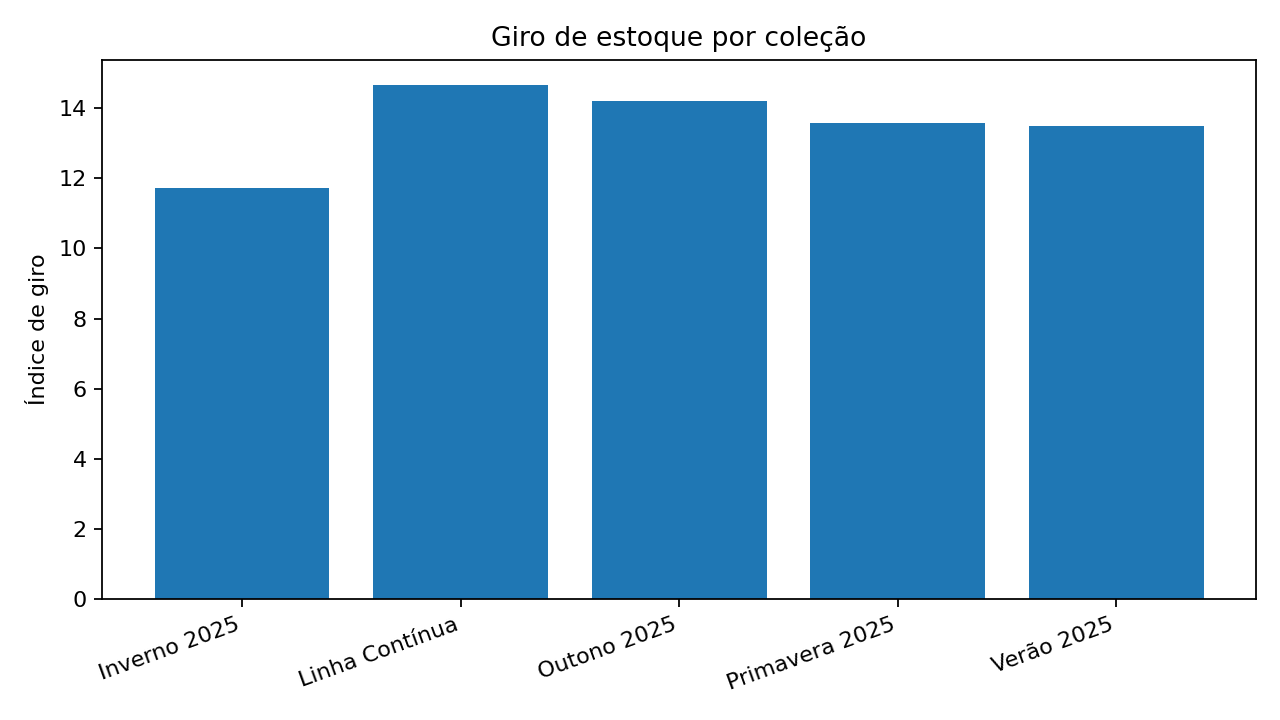
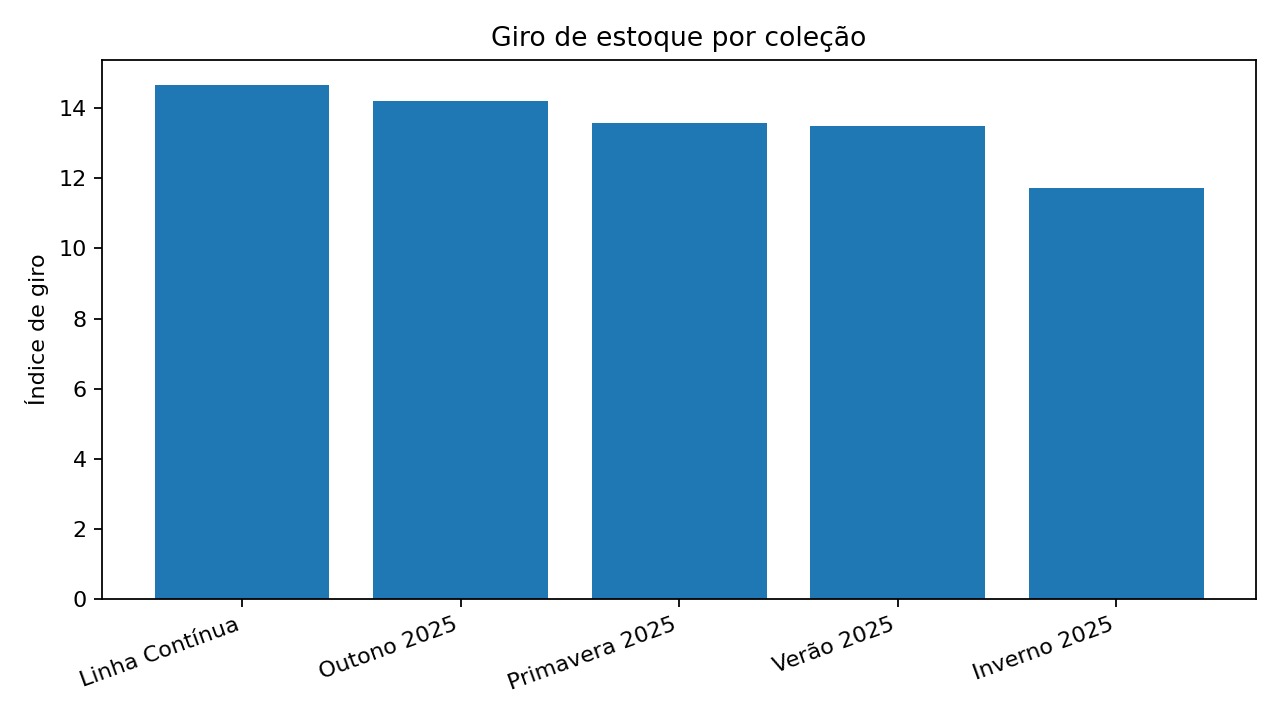
feat: adiciona geração completa de relatórios e exportação em Excel

diff --git a/src/analysis.py b/src/analysis.py
@@ -2,12 +2,21 @@ import pandas as pd
 import matplotlib.pyplot as plt
 from pathlib import Path
 
+# =========================
+# CONFIGURAÇÃO DE CAMINHOS
+# =========================
 BASE_DIR = Path(__file__).resolve().parents[1]
 DATA_DIR = BASE_DIR / 'data'
 REPORTS_DIR = BASE_DIR / 'reports'
 FIG_DIR = REPORTS_DIR / 'figures'
+
+# Garante que as pastas existam
+REPORTS_DIR.mkdir(parents=True, exist_ok=True)
 FIG_DIR.mkdir(parents=True, exist_ok=True)
 
+# =========================
+# LEITURA DOS DADOS
+# =========================
 def load_data():
     produtos = pd.read_csv(DATA_DIR / 'produtos.csv')
     vendas = pd.read_csv(DATA_DIR / 'vendas_mensais.csv')
@@ -15,39 +24,79 @@ def load_data():
     devolucoes = pd.read_csv(DATA_DIR / 'devolucoes.csv')
     return produtos, vendas, estoque, devolucoes
 
+# =========================
+# MÉTRICAS
+# =========================
 def giro_estoque_por_colecao(estoque):
     estoque = estoque.copy()
     estoque['estoque_medio'] = (estoque['estoque_inicial'] + estoque['estoque_final']) / 2
-    resultado = estoque.groupby('colecao', as_index=False).agg(quantidade_vendida=('quantidade_vendida', 'sum'), estoque_medio=('estoque_medio', 'mean'))
-    resultado['giro_estoque'] = (resultado['quantidade_vendida'] / resultado['estoque_medio']).round(2)
+
+    resultado = estoque.groupby('colecao', as_index=False).agg(
+        quantidade_vendida=('quantidade_vendida', 'sum'),
+        estoque_medio=('estoque_medio', 'mean')
+    )
+
+    resultado['giro_estoque'] = (
+        resultado['quantidade_vendida'] / resultado['estoque_medio']
+    ).round(2)
+
     return resultado.sort_values('giro_estoque', ascending=False)
 
 def previsao_demanda_estacao(vendas):
     historico = vendas.groupby('estacao', as_index=False)['quantidade_vendida'].sum()
+
     ordem = ['Verão', 'Outono', 'Inverno', 'Primavera']
-    historico['ord'] = historico['estacao'].map({s: i for i, s in enumerate(ordem)})
+    mapa_ordem = {s: i for i, s in enumerate(ordem)}
+    historico['ord'] = historico['estacao'].map(mapa_ordem)
+
     historico = historico.sort_values('ord').drop(columns='ord')
-    historico['previsao_proxima_temporada'] = (historico['quantidade_vendida'] * 1.08).round().astype(int)
+    historico['previsao_proxima_temporada'] = (
+        historico['quantidade_vendida'] * 1.08
+    ).round().astype(int)
+
     return historico
 
 def produtos_mais_vendidos(vendas, produtos):
     base = vendas.merge(produtos, on='sku', how='left')
-    return base.groupby(['sku', 'produto'], as_index=False).agg(quantidade_vendida=('quantidade_vendida', 'sum'), receita_bruta=('receita_bruta', 'sum')).sort_values(['quantidade_vendida', 'receita_bruta'], ascending=False)
+
+    resultado = base.groupby(['sku', 'produto'], as_index=False).agg(
+        quantidade_vendida=('quantidade_vendida', 'sum'),
+        receita_bruta=('receita_bruta', 'sum')
+    )
+
+    return resultado.sort_values(
+        ['quantidade_vendida', 'receita_bruta'],
+        ascending=[False, False]
+    )
 
 def devolucoes_por_produto(vendas, devolucoes, produtos):
     vendidos = vendas.groupby('sku', as_index=False)['quantidade_vendida'].sum()
     devolvidos = devolucoes.groupby('sku', as_index=False)['quantidade_devolvida'].sum()
+
     resultado = vendidos.merge(devolvidos, on='sku', how='left').fillna(0)
     resultado = resultado.merge(produtos[['sku', 'produto']], on='sku', how='left')
-    resultado['taxa_devolucao_pct'] = (resultado['quantidade_devolvida'] / resultado['quantidade_vendida'] * 100).round(2)
+
+    resultado['taxa_devolucao_pct'] = (
+        resultado['quantidade_devolvida'] / resultado['quantidade_vendida'] * 100
+    ).round(2)
+
     return resultado.sort_values('taxa_devolucao_pct', ascending=False)
 
 def margem_por_peca(produtos):
     resultado = produtos.copy()
-    resultado['margem_unitaria_rs'] = (resultado['preco_venda'] - resultado['custo_unitario']).round(2)
-    resultado['margem_pct'] = ((resultado['margem_unitaria_rs'] / resultado['preco_venda']) * 100).round(2)
+    resultado['margem_unitaria_rs'] = (
+        resultado['preco_venda'] - resultado['custo_unitario']
+    ).round(2)
+
+    resultado['margem_pct'] = (
+        (resultado['margem_unitaria_rs'] / resultado['preco_venda']) * 100
+    ).round(2)
+
     return resultado.sort_values('margem_unitaria_rs', ascending=False)
 
+# =========================
+# GRÁFICOS
+# =========================
 def salvar_graficos(giro, top_produtos, devolucoes, previsao):
     plt.figure(figsize=(8, 4.5))
     plt.bar(giro['colecao'], giro['giro_estoque'])
@@ -62,7 +111,7 @@ def salvar_graficos(giro, top_produtos, devolucoes, previsao):
     plt.figure(figsize=(8, 5))
     plt.barh(top10['produto'], top10['quantidade_vendida'])
     plt.title('Top 10 produtos mais vendidos')
-    plt.xlabel('Unidades vendidas em 2025')
+    plt.xlabel('Unidades vendidas')
     plt.tight_layout()
     plt.savefig(FIG_DIR / 'top_produtos.png', dpi=160)
     plt.close()
@@ -77,8 +126,8 @@ def salvar_graficos(giro, top_produtos, devolucoes, previsao):
     plt.close()
 
     plt.figure(figsize=(8, 4.5))
-    plt.plot(previsao['estacao'], previsao['quantidade_vendida'], marker='o', label='Histórico 2025')
-    plt.plot(previsao['estacao'], previsao['previsao_proxima_temporada'], marker='o', label='Previsão próxima temporada')
+    plt.plot(previsao['estacao'], previsao['quantidade_vendida'], marker='o', label='Histórico')
+    plt.plot(previsao['estacao'], previsao['previsao_proxima_temporada'], marker='o', label='Previsão')
     plt.title('Demanda por estação: histórico e previsão')
     plt.ylabel('Unidades')
     plt.legend()
@@ -86,20 +135,55 @@ def salvar_graficos(giro, top_produtos, devolucoes, previsao):
     plt.savefig(FIG_DIR / 'previsao_demanda_estacao.png', dpi=160)
     plt.close()
 
+# =========================
+# SALVAMENTO DOS RELATÓRIOS
+# =========================
+def salvar_relatorios(giro, previsao, top_produtos, ret, margem):
+    arquivos = {
+        'giro_estoque_por_colecao.csv': giro,
+        'previsao_demanda_estacao.csv': previsao,
+        'produtos_mais_vendidos.csv': top_produtos,
+        'devolucoes_por_produto.csv': ret,
+        'margem_por_peca.csv': margem,
+    }
+
+    for nome_arquivo, df in arquivos.items():
+        caminho = REPORTS_DIR / nome_arquivo
+        df.to_csv(caminho, index=False, encoding='utf-8-sig')
+        print(f'Relatório salvo: {caminho}')
+
+    # Salva também em Excel, com várias abas
+    caminho_excel = REPORTS_DIR / 'relatorio_textil_completo.xlsx'
+    with pd.ExcelWriter(caminho_excel, engine='openpyxl') as writer:
+        giro.to_excel(writer, sheet_name='Giro_Estoque', index=False)
+        previsao.to_excel(writer, sheet_name='Previsao_Demanda', index=False)
+        top_produtos.to_excel(writer, sheet_name='Produtos_Mais_Vendidos', index=False)
+        ret.to_excel(writer, sheet_name='Devolucoes', index=False)
+        margem.to_excel(writer, sheet_name='Margem_por_Peca', index=False)
+
+    print(f'Relatório Excel salvo: {caminho_excel}')
+
+# =========================
+# FUNÇÃO PRINCIPAL
+# =========================
 def main():
+    print(f'Pasta do projeto: {BASE_DIR}')
+    print(f'Pasta de dados: {DATA_DIR}')
+    print(f'Pasta de relatórios: {REPORTS_DIR}')
+
     produtos, vendas, estoque, devolucoes = load_data()
+
     giro = giro_estoque_por_colecao(estoque)
     previsao = previsao_demanda_estacao(vendas)
     top_produtos = produtos_mais_vendidos(vendas, produtos)
     ret = devolucoes_por_produto(vendas, devolucoes, produtos)
     margem = margem_por_peca(produtos)
-    giro.to_csv(REPORTS_DIR / 'giro_estoque_por_colecao.csv', index=False)
-    previsao.to_csv(REPORTS_DIR / 'previsao_demanda_estacao.csv', index=False)
-    top_produtos.to_csv(REPORTS_DIR / 'produtos_mais_vendidos.csv', index=False)
-    ret.to_csv(REPORTS_DIR / 'devolucoes_por_produto.csv', index=False)
-    margem.to_csv(REPORTS_DIR / 'margem_por_peca.csv', index=False)
+
+    salvar_relatorios(giro, previsao, top_produtos, ret, margem)
     salvar_graficos(giro, top_produtos, ret, previsao)
-    print('Análise concluída. Arquivos salvos em /reports.')
+
+    print('\nAnálise concluída com sucesso.')
+    print(f'Todos os arquivos foram salvos em: {REPORTS_DIR}')
 
 if __name__ == '__main__':
     main()
